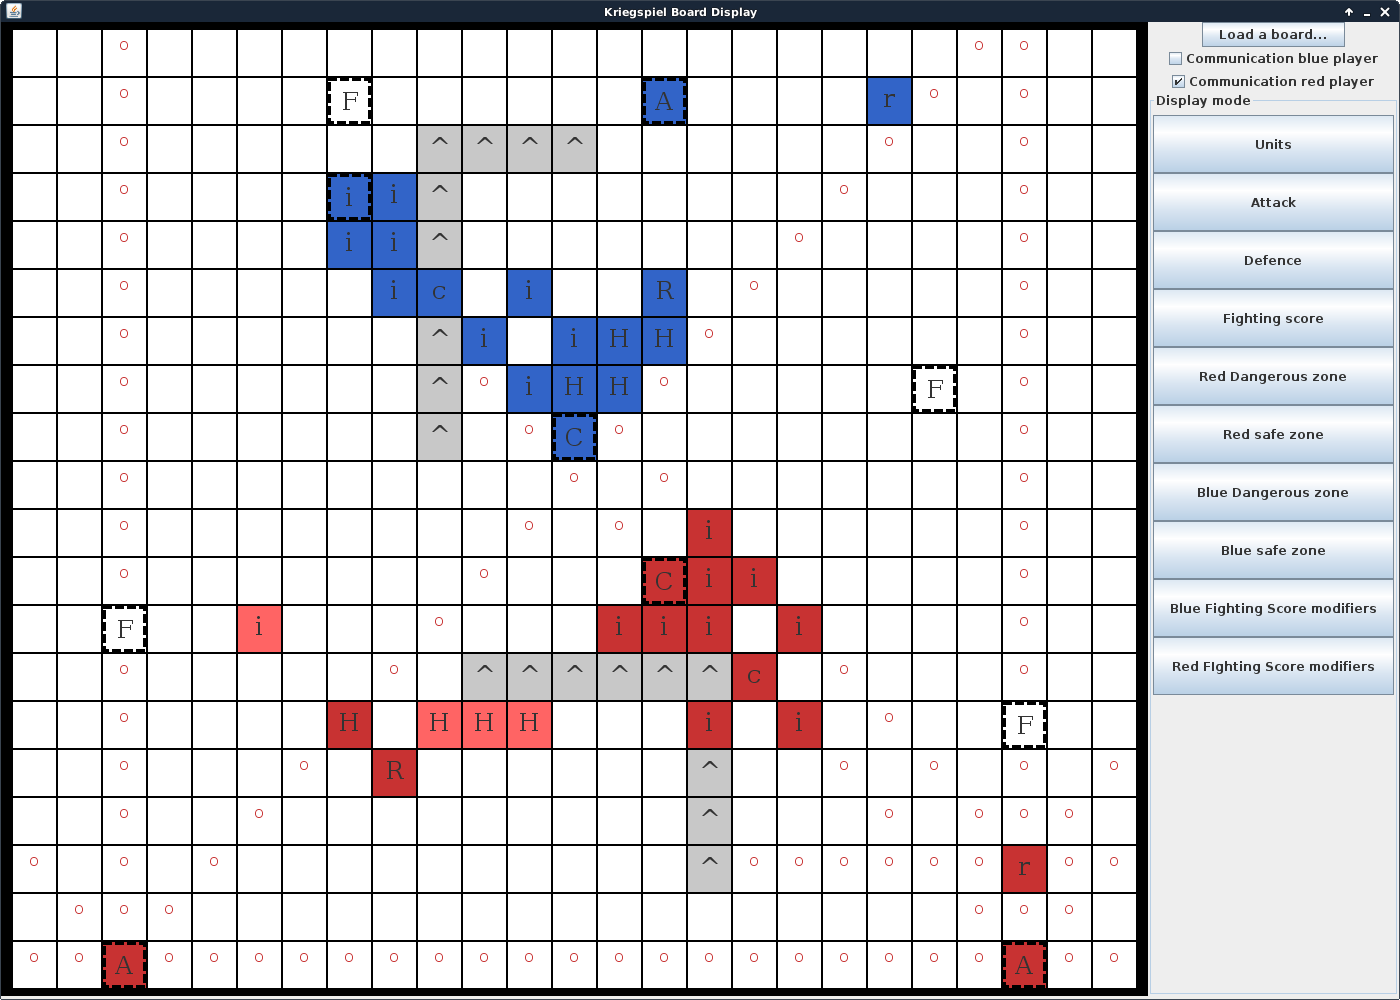
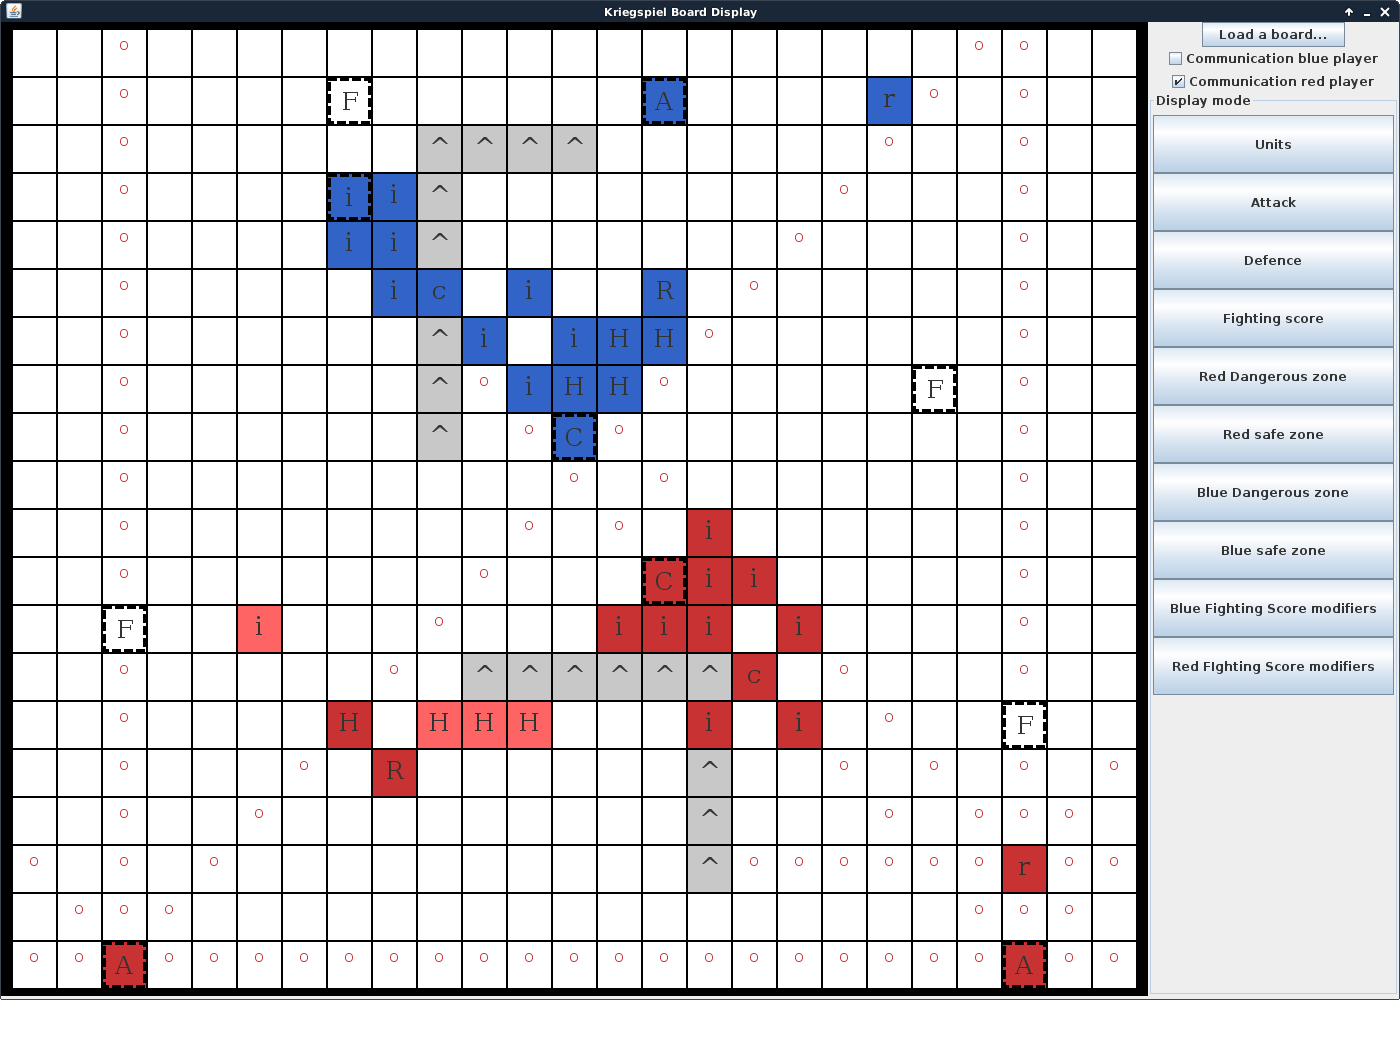
détails

diff --git a/doc/scenarios.tex b/doc/scenarios.tex
@@ -44,7 +44,7 @@
 
 		\subsection{Mode score de combat / points faibles}
 
-			\centerline{\includegraphics[scale=0.5]{images/screen_fscore.png}}
+			\centerline{\includegraphics[scale=0.4]{images/screen_fscore.png}}
 			
 			\paragraph{}
 			Le mode score de combat permet de voir les unités en situation de force ou de faiblesse.
@@ -85,7 +85,7 @@
 
 		\subsection{Lignes de communication}
 
-			\centerline{\includegraphics[scale=0.45]{images/screen_com.png}}
+			\centerline{\includegraphics[scale=0.4]{images/screen_com.png}}
 			Les lignes de communication sont représentées par des cercles de la couleur de l'équipe sur les cases vides.
 			Les unités déconnectées ont une teinte plus claire que les unités connectées.
 			On peut remarquer que les unités adverses bloquent les communications et que les relais alliés les propagent. 
